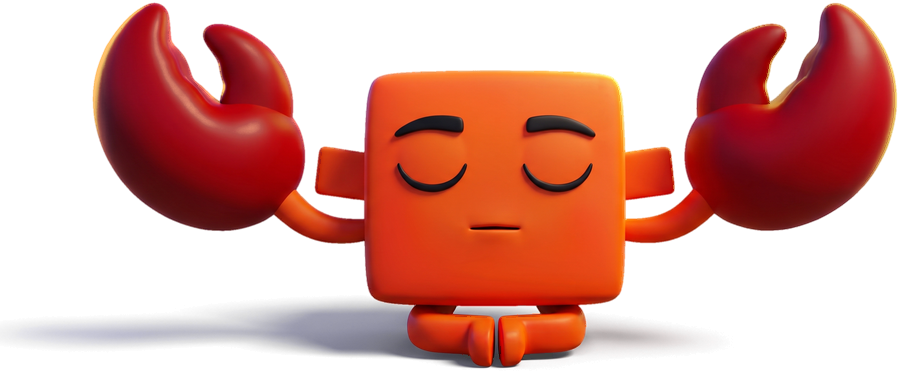
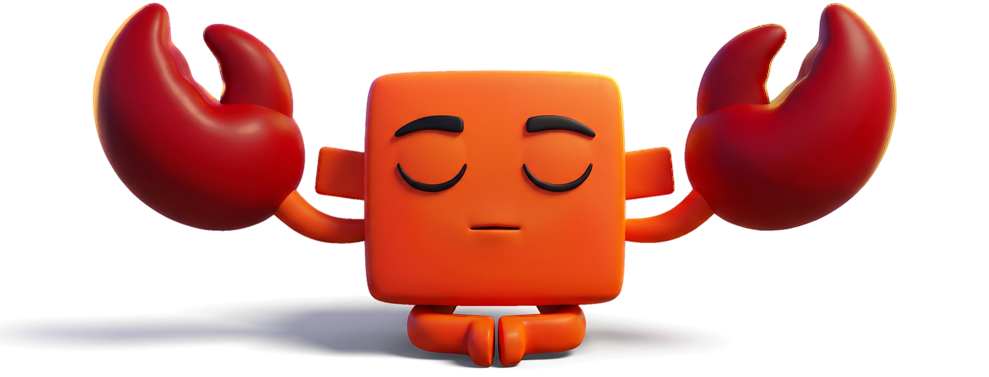
Center the CLAW mascot in the README image

diff --git a/README.md b/README.md
@@ -1,6 +1,6 @@
 <div align="center">
 
-<img src="assets/claw.png" alt="CLAW, an orange block with two claws, sitting cross-legged in calm focus" width="360">
+<img src="assets/claw.png" alt="CLAW, an orange block with two claws, sitting cross-legged in calm focus" width="396">
 
 # CLAW
 
